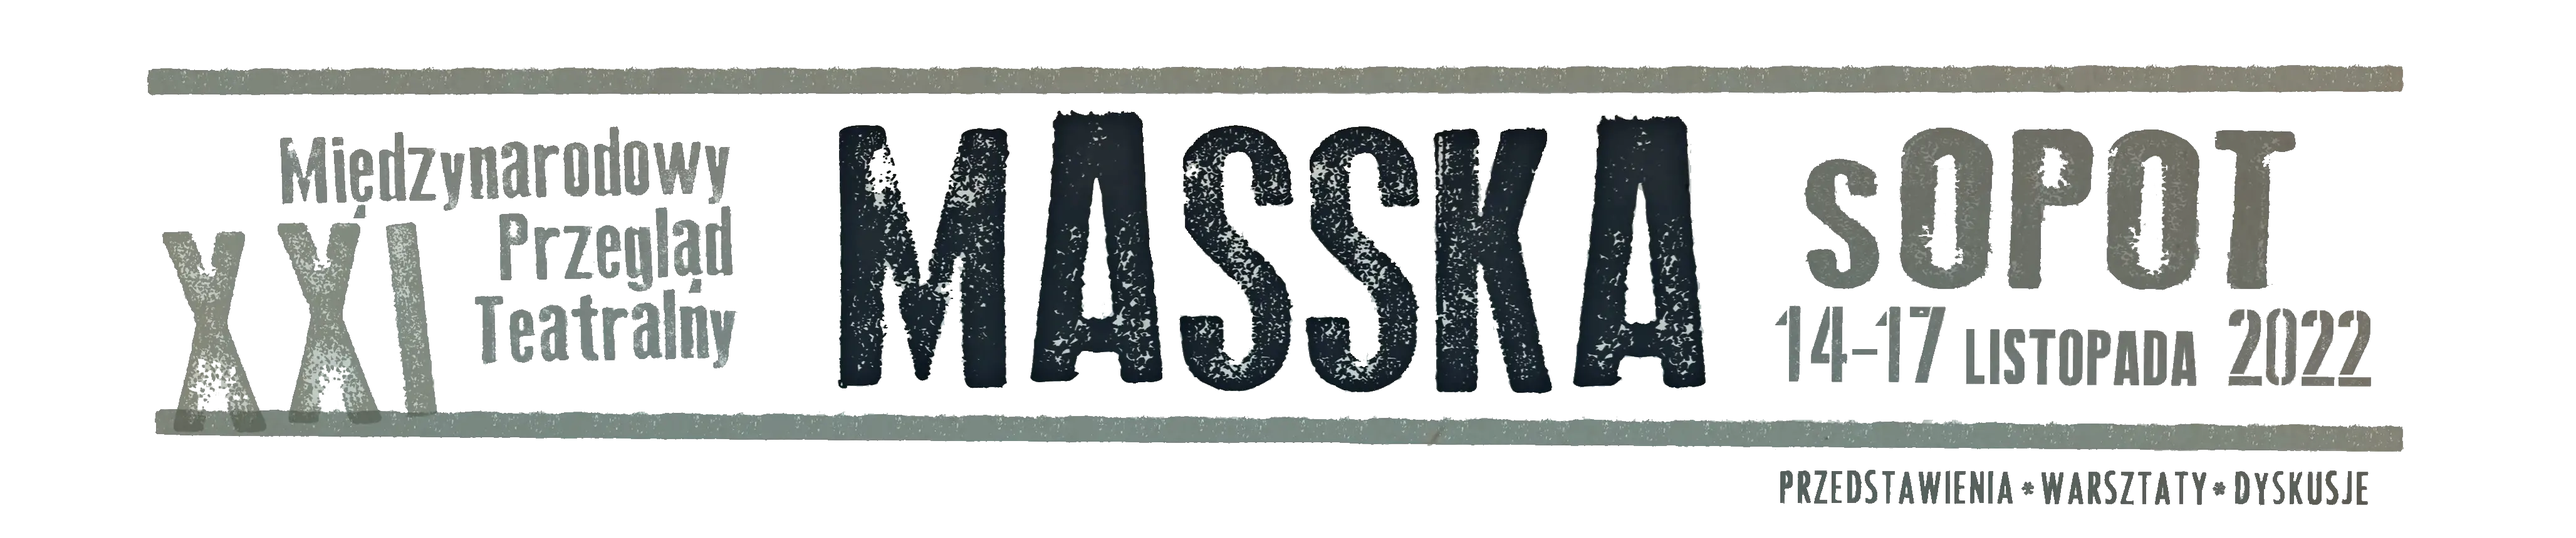
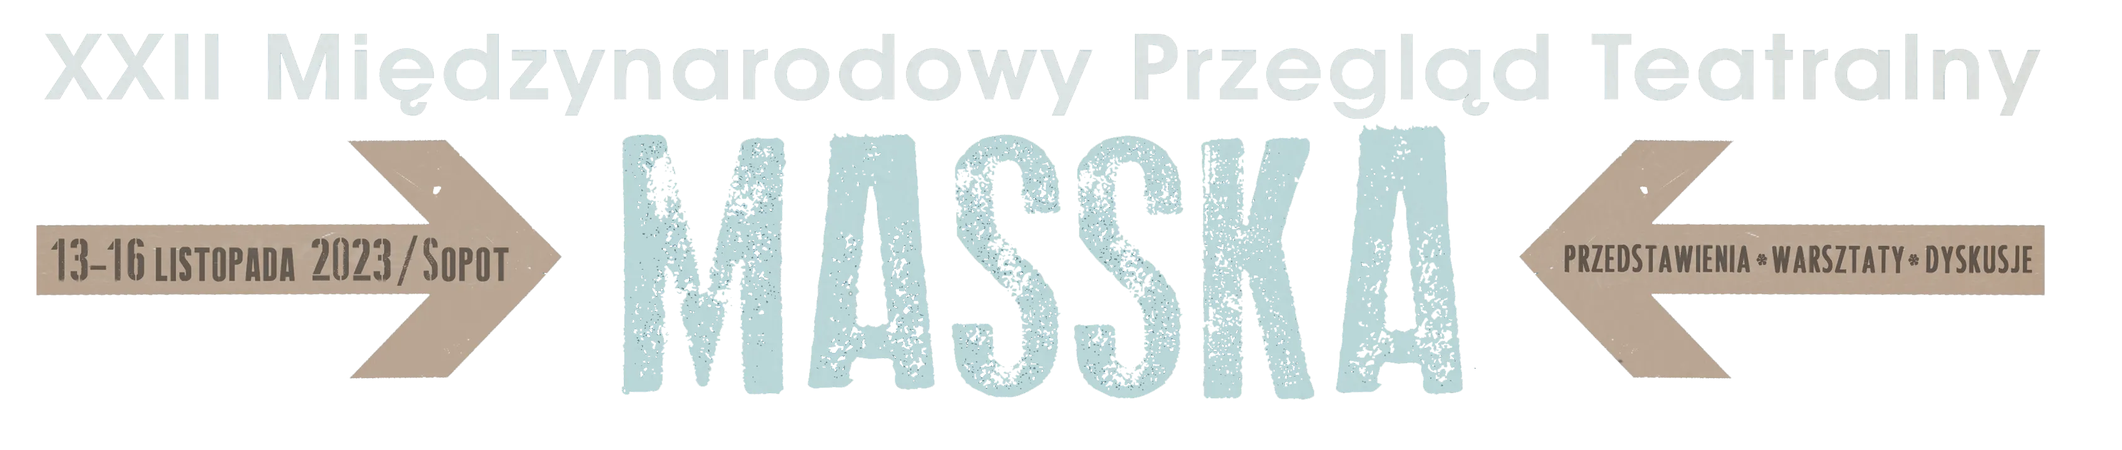
nowa grafika

diff --git a/css/style.css b/css/style.css
@@ -2,10 +2,21 @@ body {
     font-size: 16px;
     color: #333;
     transition-duration: .5s;
+    background-color: #648d9f;
+    width: 90%;
+    margin: auto;
+    text-align: justify;
 }
 
 .banner {
     width: 100%;
+}
+
+.logo {
+    display: block;
+    margin-left: auto;
+    margin-right: auto;
+    width: 10%;
 }
 
 /* High contrast styles */
@@ -15,7 +26,11 @@ body {
     transition-duration: .5s;
 }
 
-.high-contrast .banner {
+.high-contrast .logo {
+    filter: invert(100%);
+}
+
+.high-contrast .wcag-menu {
     filter: invert(100%);
 }
 
@@ -26,6 +41,15 @@ body {
 
 .large-text {
     font-size: 22px;
+}
+
+p:first-child:first-letter {
+    float: left;
+    font-size: 75px;
+    line-height: 60px;
+    padding-top: 4px;
+    padding-right: 8px;
+    padding-left: 3px;
 }
 
 /* WCAG menu styles */
@@ -51,6 +75,10 @@ body {
     -webkit-filter: invert(1);
     filter: invert(1);
     transition-duration: .5s;
+}
+
+.high-contrast .wcag-menu {
+    filter: invert(100%);
 }
 
 /* Cookie */

diff --git a/index.html b/index.html
@@ -12,6 +12,9 @@
 
 <body>
     <section>
+        <img src="img/logo.webp" class="logo">
+    </section>
+    <section>
         <header><img src="img/banner.webp" class="banner"></header>
     </section>
     <section>
